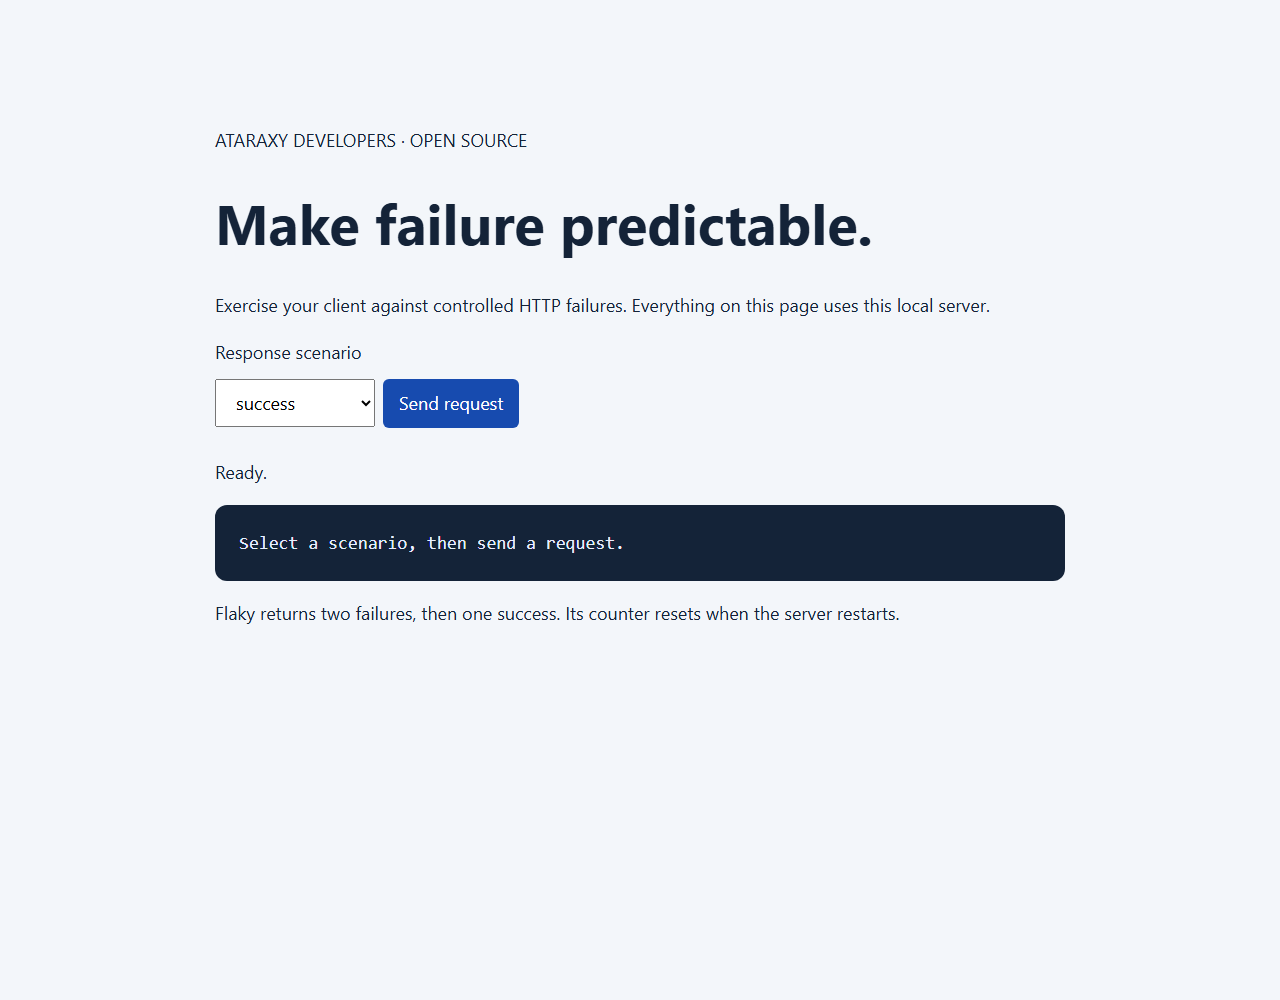
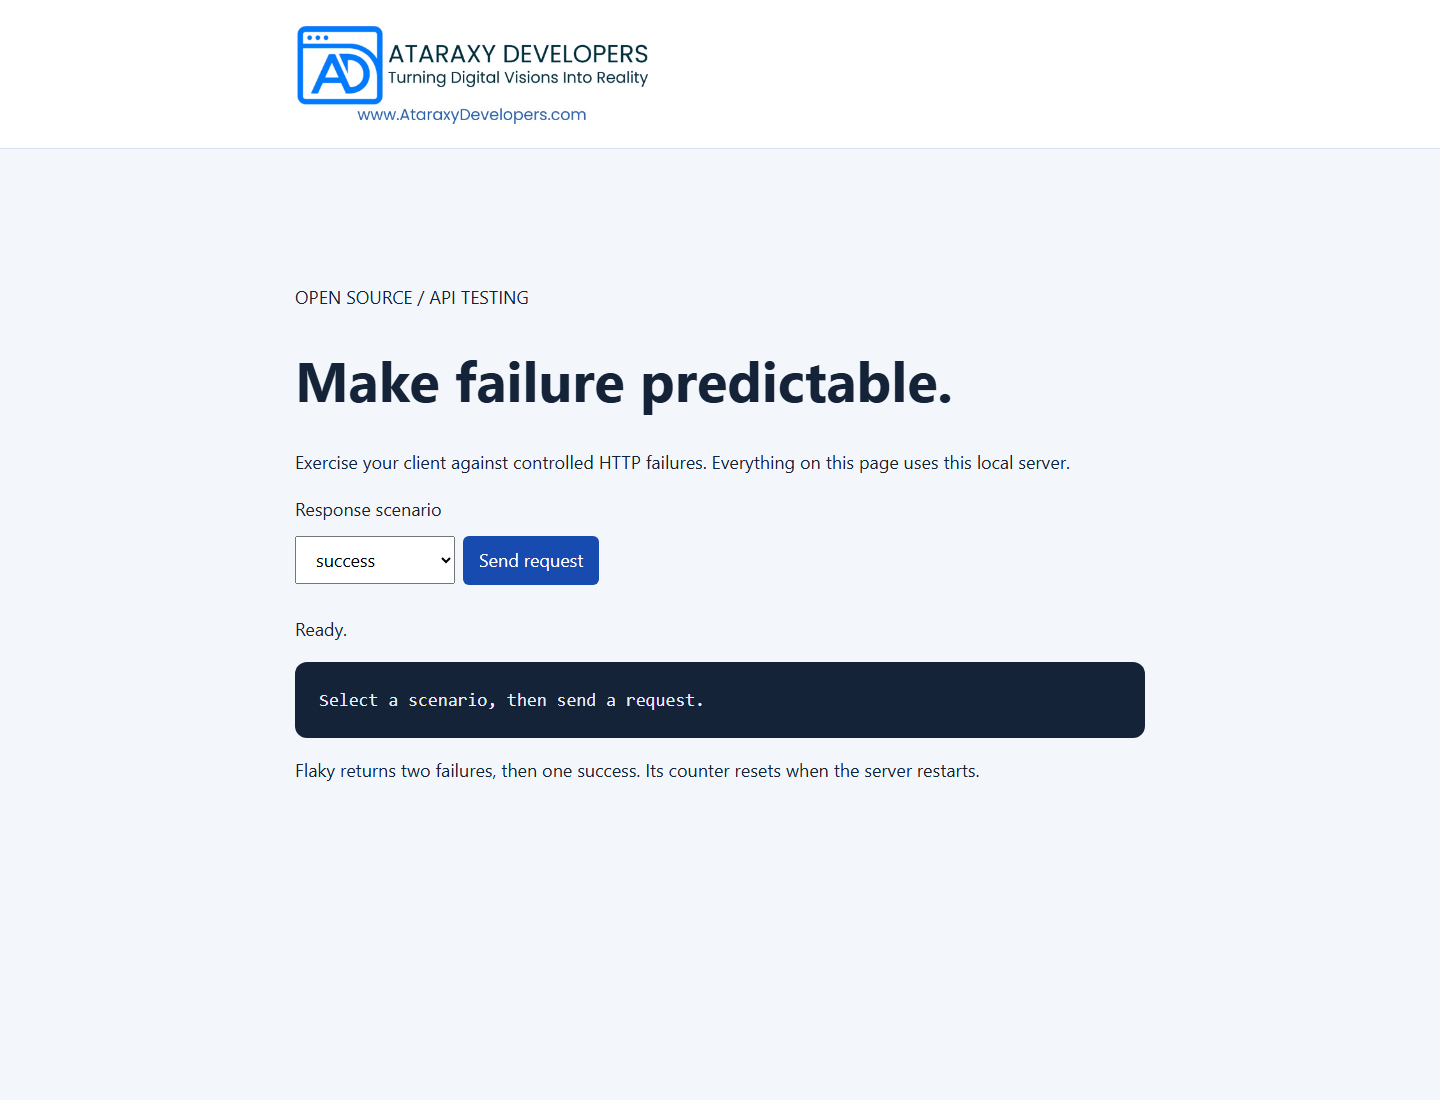
Use approved Ataraxy Developers branding

Changed region(s): [[0.1562, 0.186, 0.8438, 0.713], [0.1562, 0.0, 0.4688, 0.155]]

diff --git a/public/index.html b/public/index.html
@@ -4,12 +4,14 @@
     <meta charset="utf-8" />
     <meta name="viewport" content="width=device-width,initial-scale=1" />
     <title>API Failure Playground</title>
+    <link rel="icon" href="/ataraxy-developers-logo.png" type="image/png" />
     <link rel="stylesheet" href="/style.css" />
     <script type="module" src="/app.js"></script>
   </head>
   <body>
+    <header class="site-header"><a class="brand" href="https://ataraxydevelopers.com"><img src="/ataraxy-developers-logo.png" alt="Ataraxy Developers — Turning Digital Visions Into Reality" width="1127" height="313" /></a></header>
     <main>
-      <p>ATARAXY DEVELOPERS · OPEN SOURCE</p>
+      <p>OPEN SOURCE / API TESTING</p>
       <h1>Make failure predictable.</h1>
       <p>
         Exercise your client against controlled HTTP failures. Everything on this page uses this

diff --git a/public/style.css b/public/style.css
@@ -45,3 +45,11 @@ pre {
   outline: 3px solid #b45309;
   outline-offset: 4px;
 }
+
+/* Use the complete, original company artwork without distortion. */
+header { flex-wrap: wrap; gap: 16px; background: #fff; }
+.brand { display: block; flex: 0 1 360px; min-width: 0; max-width: 100%; background: #fff; }
+.brand img { display: block; width: 360px; max-width: 100%; height: auto; }
+@media (max-width: 600px) { header { padding: 18px 20px; } .brand { flex-basis: 360px; } }
+
+.site-header { display: flex; justify-content: space-between; padding: 24px max(28px, calc((100vw - 850px) / 2)); border-bottom: 1px solid #d9e1ef; }

diff --git a/BRANDING.md b/BRANDING.md
@@ -1,0 +1,10 @@
+# Ataraxy Developers branding
+
+The company-approved logo is [public/ataraxy-developers-logo.png](public/ataraxy-developers-logo.png). It is the original PNG supplied by Ataraxy Developers on 2026-11-16, unchanged.
+
+- Preserve the complete artwork, its aspect ratio, and its white background.
+- Do not redraw it or substitute typed initials, an invented monogram, or generated artwork.
+- Use readable sizing and descriptive alternative text.
+- Capture screenshots from the working interface after this logo has loaded.
+
+SHA-256: 87ebc5a0092af0fff4524e805730ca3dc97c4483bd49f866528b8cdb97d422e7

diff --git a/CHANGELOG.md b/CHANGELOG.md
@@ -1,5 +1,9 @@
 # Changelog
 
+## 0.1.2 — 2026-11-16
+
+Use the original, approved Ataraxy Developers logo and document its source. Update the interface and browser icon, serve the PNG correctly, and replace the README screenshot with a capture of the corrected app.
+
 ## 0.1.1 — 2026-11-13
 
 Clarify server lifetime, alternate port usage, and expected intentional failures; make network-error feedback accurate.

diff --git a/README.md b/README.md
@@ -1,3 +1,5 @@
+<p><a href="https://ataraxydevelopers.com"><img src="public/ataraxy-developers-logo.png" alt="Ataraxy Developers — Turning Digital Visions Into Reality" width="520"></a></p>
+
 # API Failure Playground
 
 [![CI](https://github.com/AtaraxyDevelopers/api-failure-playground/actions/workflows/ci.yml/badge.svg)](https://github.com/AtaraxyDevelopers/api-failure-playground/actions/workflows/ci.yml)
